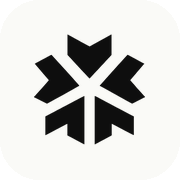
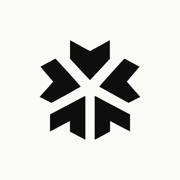
feat(site): adopt brand standard v1.1 and the user's naming and entity decisions
Standard v1.1: the header is 64px in every UnifyAI product, with clear space
relaxed to 12px a side there (the footer and hero diagram keep the full
rule); muted text on Slate uses the new --u-muted-on-dark token; the
favicon, iOS icon and OG image are now the kit's official files, replacing
the package's black-only SVG, transparent tile and the local re-render.

User decisions: the product is "UnifyAI Compute" in the title, metadata
and manifest (the header keeps lockup + "Compute"). The privacy policy's
Company and data controller is UnifyAI at the Petaling Jaya address, and
the comment no longer claims the text tracks felixsphere.com. The contact
email stays on felixsphere.com because unifyai.us has no MX record; the
felixsphere.com contact page link is gone. The GitHub links to FelixSphere
are removed with their elements, not left as empty slots.

The notifications spec records the operator's sender and job-page URL and
proposes the console notify verb for delivery; nothing is sent until the
job page exists.

diff --git a/app/globals.css b/app/globals.css
@@ -87,23 +87,24 @@ a:focus-visible, button:focus-visible { outline: none; box-shadow: var(--u-focus
 .wrap { width: min(1240px, calc(100% - 96px)); margin: auto; }
 
 /* The mark inside the 148px lockup is 34px tall and the SVG carries 8.5px of
-   padding, so 28px more on each open side keeps the brand's clear space (the
-   mark's own height). The page gutter covers the left edge. */
+   padding. In the 64px header UI-STANDARD relaxes clear space to 12px a side
+   plus the divider; the footer and the hero diagram keep the full rule (the
+   mark's own height, 28px beyond the SVG's padding). */
 .brand { display: block; flex-shrink: 0; padding: 28px 28px 28px 0; }
 .brand-lockup { display: block; width: 148px; height: auto; }
 .brand-group { display: flex; align-items: center; }
-.product-divider { width: 1px; height: 22px; background: var(--u-border); margin-right: 16px; }
+.nav .brand { padding: 0 4px 0 0; }
+.product-divider { width: 1px; height: 22px; background: var(--u-border); margin-right: 12px; }
 .product-name { font-family: var(--u-font-display); font-weight: 500; font-size: 17px; white-space: nowrap; }
 
-.nav { min-height: 108px; display: flex; align-items: center; justify-content: space-between; gap: 0 24px; border-bottom: var(--u-rule); }
+.nav { height: var(--u-header-height); display: flex; align-items: center; justify-content: space-between; gap: 0 24px; border-bottom: var(--u-rule); }
 .nav nav { display: flex; gap: 32px; font-size: var(--u-text-sm); color: var(--u-text-2); }
 .nav nav a:hover, footer a:not(.brand):hover, .text-link:hover { color: var(--u-text); text-decoration: underline; text-underline-offset: 4px; }
 
-.button, .nav-link { display: inline-flex; align-items: center; justify-content: center; gap: 12px; height: var(--u-btn-height); padding: 0 20px; border-radius: var(--u-radius); font-family: var(--u-font-body); font-size: 15px; font-weight: 600; transition: background .2s; }
+.button { display: inline-flex; align-items: center; justify-content: center; gap: 12px; height: var(--u-btn-height); padding: 0 20px; border-radius: var(--u-radius); font-family: var(--u-font-body); font-size: 15px; font-weight: 600; transition: background .2s; }
 .primary { background: var(--u-btn-primary-bg); color: var(--u-btn-primary-fg); }
 .primary:hover { background: var(--u-accent-hover); }
 .primary:active { background: var(--u-accent-active); }
-.nav-link { background: var(--u-btn-secondary-bg); color: var(--u-btn-secondary-fg); }
 
 .hero { display: grid; grid-template-columns: 1.12fr 1fr; gap: 56px; align-items: center; padding-block: 88px; }
 .eyebrow { font-family: var(--u-font-mono); font-size: var(--u-text-xs); letter-spacing: 1.6px; text-transform: uppercase; color: var(--u-text-muted); margin: 0 0 28px; display: flex; align-items: center; gap: 8px; }
@@ -117,10 +118,10 @@ h3 { font-size: var(--u-h3); }
 .text-link { font-size: 15px; font-weight: 600; display: flex; gap: 8px; align-items: center; }
 .hero-note { display: flex; align-items: center; gap: 8px; color: var(--u-text-muted); font-size: var(--u-text-xs); margin-top: 24px; }
 
-/* Slate is the brand's heavy surface. Text on it is Paper (11.9:1); Stone is
-   only for rules here, as tokens.css allows ("rules on dark"). */
+/* Slate is the brand's heavy surface: Paper text (11.9:1), --u-muted-on-dark
+   for secondary labels, Stone only for rules. */
 .compute-panel { border-radius: var(--u-radius); background: var(--u-slate); color: var(--u-paper); overflow: hidden; }
-.panel-head { display: flex; justify-content: space-between; gap: 8px; padding: 20px; border-bottom: 1px solid var(--u-stone); font: 11px var(--u-font-mono); letter-spacing: 1px; }
+.panel-head { display: flex; justify-content: space-between; gap: 8px; padding: 20px; border-bottom: 1px solid var(--u-stone); font: 11px var(--u-font-mono); letter-spacing: 1px; color: var(--u-muted-on-dark); }
 .panel-head > span:first-child { display: flex; align-items: center; gap: 8px; }
 .diagram-inputs { display: grid; grid-template-columns: repeat(4, 1fr); gap: 8px; margin: 32px 24px 0; }
 .diagram-inputs > span { display: flex; gap: 8px; align-items: center; justify-content: center; border: 1px solid var(--u-stone); border-radius: var(--u-radius); padding: 12px 4px; font-size: var(--u-text-xs); }
@@ -129,7 +130,7 @@ h3 { font-size: var(--u-h3); }
 .engine { display: flex; align-items: center; flex-wrap: wrap; gap: 0 28px; margin: 24px 48px 0; padding: 0 28px; background: var(--u-ink); border-radius: var(--u-radius); position: relative; }
 .engine:before { position: absolute; content: ''; top: -24px; height: 24px; left: 50%; border-left: 1px solid var(--u-stone); }
 .engine .brand-lockup { margin-block: 28px; }
-.engine-caption { font-size: var(--u-text-xs); }
+.engine-caption { font-size: var(--u-text-xs); color: var(--u-muted-on-dark); }
 .engine-bars { margin-left: auto; display: flex; gap: 4px; align-items: flex-end; height: 28px; }
 .engine-bars i { display: block; width: 4px; background: var(--u-accent); height: 12px; }
 .engine-bars i:nth-child(2n) { height: 20px; }
@@ -140,8 +141,8 @@ h3 { font-size: var(--u-h3); }
 .chip-grid { display: grid; grid-template-columns: repeat(3, 8px); gap: 4px; width: max-content; margin: 0 auto 12px; }
 .chip-grid i { width: 8px; height: 8px; border: 1px solid var(--u-stone); }
 .chip-grid .lit { background: var(--u-paper); border-color: var(--u-paper); }
-.gpu > span:last-child { font: 11px var(--u-font-mono); letter-spacing: 1px; }
-.panel-foot { border-top: 1px solid var(--u-stone); padding: 16px 20px; display: flex; flex-wrap: wrap; justify-content: space-between; gap: 8px; font: 11px var(--u-font-mono); }
+.gpu > span:last-child { font: 11px var(--u-font-mono); letter-spacing: 1px; color: var(--u-muted-on-dark); }
+.panel-foot { border-top: 1px solid var(--u-stone); padding: 16px 20px; display: flex; flex-wrap: wrap; justify-content: space-between; gap: 8px; font: 11px var(--u-font-mono); color: var(--u-muted-on-dark); }
 
 .principles { border-block: var(--u-rule); background: var(--u-surface); }
 .principles .wrap { display: flex; justify-content: space-between; gap: 24px; padding-block: 24px; }
@@ -173,15 +174,14 @@ h3 { font-size: var(--u-h3); }
 .consumption > div:first-child > p:not(.eyebrow) { line-height: 1.8; color: var(--u-text-2); max-width: 496px; margin: 24px 0; }
 .pricing-note { color: var(--u-text-muted); font-size: var(--u-text-sm); }
 .billing-card { border-radius: var(--u-radius); background: var(--u-slate); color: var(--u-paper); padding: 32px; }
-.billing-title { display: flex; align-items: center; gap: 8px; font: 11px var(--u-font-mono); letter-spacing: 1px; }
+.billing-title { display: flex; align-items: center; gap: 8px; font: 11px var(--u-font-mono); letter-spacing: 1px; color: var(--u-muted-on-dark); }
 .billing-card p { font-family: var(--u-font-display); font-weight: 700; font-size: var(--u-h1); line-height: 1.2; letter-spacing: -1px; margin: 32px 0; }
 .billing-card p span { color: var(--u-accent); }
-.billing-bottom { display: flex; justify-content: space-between; align-items: center; border-top: 1px solid var(--u-stone); padding-top: 20px; font-size: var(--u-text-sm); }
+.billing-bottom { display: flex; justify-content: space-between; align-items: center; border-top: 1px solid var(--u-stone); padding-top: 20px; font-size: var(--u-text-sm); color: var(--u-muted-on-dark); }
 
 footer { display: flex; align-items: center; column-gap: 32px; flex-wrap: wrap; border-top: var(--u-rule); padding-block: 8px; margin-bottom: 12px; }
 footer > span { font-size: var(--u-text-sm); color: var(--u-text-muted); }
 footer > a:not(.brand) { display: flex; gap: 8px; align-items: center; margin-left: auto; font-size: var(--u-text-sm); }
-footer > .footer-privacy + a { margin-left: 0; }
 footer > .copyright { width: 100%; font-size: var(--u-text-xs); padding-bottom: 28px; }
 
 .legal { max-width: 760px; padding-block: 72px 96px; line-height: 1.75; color: var(--u-text-2); }
@@ -202,8 +202,8 @@ footer > .copyright { width: 100%; font-size: var(--u-text-xs); padding-bottom: 
 
 @media (min-width: 1450px) { .hero { padding-block: 104px; } }
 @media (max-width: 1100px) { .wrap { width: calc(100% - 56px); } .hero { gap: 32px; } .hero-actions { gap: 16px; } .diagram-inputs { margin-inline: 12px; gap: 4px; } .panel-label { display: none; } .engine { margin-inline: 32px; } .workload { padding-inline: 20px; } .consumption { gap: 48px; } .steps { gap: 36px; } }
-@media (max-width: 800px) { .nav nav { gap: 16px; } .nav-link { display: none; } .hero { grid-template-columns: 1fr; padding-block: 56px; gap: 40px; } .hero-copy { max-width: 572px; } .hero-description, .hero-detail { max-width: 540px; } .compute-panel { max-width: 560px; width: 100%; margin: auto; } .workload-grid { grid-template-columns: repeat(2, 1fr); } .workload:nth-child(3) { border-left: 0; border-top: var(--u-rule); } .workload:nth-child(4) { border-top: var(--u-rule); } .workload p { min-height: auto; } .section-heading { align-items: flex-start; flex-direction: column; gap: 20px; } .section { padding-block: 60px; } .steps { gap: 24px; } .consumption { gap: 36px; } .billing-card { padding: 24px; } .billing-card p { font-size: var(--u-h2); } .principles span { font-size: var(--u-text-xs); gap: 8px; } .subtle-label { display: none; } footer { column-gap: 20px; } }
-/* A phone gets the navigation on its own row under the lockup, so the header
-   never squeezes the lockup's clear space or overflows 375px. */
-@media (max-width: 520px) { .wrap { width: calc(100% - 48px); } .nav { flex-wrap: wrap; } .nav nav { width: 100%; gap: 16px; padding-bottom: 20px; } .nav nav a:last-child { display: none; } h1 { font-size: var(--u-h1); letter-spacing: -1px; } h2 { font-size: var(--u-h2); letter-spacing: -.4px; } .eyebrow { font-size: 11px; letter-spacing: 1.2px; } .hero-actions { align-items: flex-start; flex-direction: column; gap: 20px; } .hero-detail { font-size: var(--u-text-sm); } .principles .wrap { flex-wrap: wrap; gap: 8px 20px; } .principles .wrap > span:last-child { width: 100%; } .workload-grid { grid-template-columns: 1fr; } .workload + .workload { border-left: 0; border-top: var(--u-rule); } .card-top { margin-bottom: 24px; } .workload p { font-size: var(--u-text-md); max-width: 360px; } .steps, .consumption { grid-template-columns: 1fr; } .steps { gap: 32px; margin-top: 32px; } .steps p { max-width: none; } .panel-head { padding: 16px; } .diagram-inputs > span { flex-direction: column; gap: 8px; font-size: 11px; } .gpu-grid { gap: 8px; margin-inline: 16px; } .panel-foot { padding-inline: 16px; } .flow-lines { margin-inline: 44px; } .engine { margin-inline: 16px; } .engine-caption { width: 100%; padding-bottom: 28px; } .engine-bars { position: absolute; right: 20px; top: 40px; } .engine-bars i { width: 3px; } footer > span:nth-child(2) { display: none; } footer > a:not(.brand) { font-size: var(--u-text-xs); gap: 4px; } .section { padding-block: 48px; } }
+@media (max-width: 800px) { .nav nav { gap: 16px; } .hero { grid-template-columns: 1fr; padding-block: 56px; gap: 40px; } .hero-copy { max-width: 572px; } .hero-description, .hero-detail { max-width: 540px; } .compute-panel { max-width: 560px; width: 100%; margin: auto; } .workload-grid { grid-template-columns: repeat(2, 1fr); } .workload:nth-child(3) { border-left: 0; border-top: var(--u-rule); } .workload:nth-child(4) { border-top: var(--u-rule); } .workload p { min-height: auto; } .section-heading { align-items: flex-start; flex-direction: column; gap: 20px; } .section { padding-block: 60px; } .steps { gap: 24px; } .consumption { gap: 36px; } .billing-card { padding: 24px; } .billing-card p { font-size: var(--u-h2); } .principles span { font-size: var(--u-text-xs); gap: 8px; } .subtle-label { display: none; } footer { column-gap: 20px; } }
+/* On a phone the 64px bar holds the lockup and descriptor only; the links
+   move to a row beneath it rather than overflow 375px. */
+@media (max-width: 520px) { .wrap { width: calc(100% - 48px); } .nav { height: auto; flex-wrap: wrap; } .brand-group { height: var(--u-header-height); } .nav nav { width: 100%; gap: 16px; padding-bottom: 16px; } .nav nav a:last-child { display: none; } h1 { font-size: var(--u-h1); letter-spacing: -1px; } h2 { font-size: var(--u-h2); letter-spacing: -.4px; } .eyebrow { font-size: 11px; letter-spacing: 1.2px; } .hero-actions { align-items: flex-start; flex-direction: column; gap: 20px; } .hero-detail { font-size: var(--u-text-sm); } .principles .wrap { flex-wrap: wrap; gap: 8px 20px; } .principles .wrap > span:last-child { width: 100%; } .workload-grid { grid-template-columns: 1fr; } .workload + .workload { border-left: 0; border-top: var(--u-rule); } .card-top { margin-bottom: 24px; } .workload p { font-size: var(--u-text-md); max-width: 360px; } .steps, .consumption { grid-template-columns: 1fr; } .steps { gap: 32px; margin-top: 32px; } .steps p { max-width: none; } .panel-head { padding: 16px; } .diagram-inputs > span { flex-direction: column; gap: 8px; font-size: 11px; } .gpu-grid { gap: 8px; margin-inline: 16px; } .panel-foot { padding-inline: 16px; } .flow-lines { margin-inline: 44px; } .engine { margin-inline: 16px; } .engine-caption { width: 100%; padding-bottom: 28px; } .engine-bars { position: absolute; right: 20px; top: 40px; } .engine-bars i { width: 3px; } footer > span:nth-child(2) { display: none; } footer > a:not(.brand) { font-size: var(--u-text-xs); gap: 4px; } .section { padding-block: 48px; } }
 @media (prefers-reduced-motion: reduce) { html { scroll-behavior: auto; } * { transition: none !important; } }

diff --git a/app/page.tsx b/app/page.tsx
@@ -1,6 +1,6 @@
 import Link from 'next/link';
 import { BrandLockup, CompanyLine } from './brand';
-import { ArrowUpRight, ArrowRight, Layers3, ScanText, SlidersHorizontal, Binary, Zap, GitFork } from 'lucide-react';
+import { ArrowUpRight, ArrowRight, Layers3, ScanText, SlidersHorizontal, Binary, Zap } from 'lucide-react';
 
 const workloads = [
   { icon: Layers3, number: '01', title: 'Batch processing', text: 'From a thousand records to your entire dataset. Run inference in bulk, on your schedule.', tags: 'DATA ENRICHMENT / OFFLINE INFERENCE' },
@@ -16,7 +16,6 @@ export default function Home() {
       <header className="nav wrap">
         <div className="brand-group"><a href="#top" className="brand" aria-label="UnifyAI home"><BrandLockup/></a><span className="product-divider" aria-hidden="true"/><span className="product-name">Compute</span></div>
         <nav aria-label="Main navigation"><a href="#workloads">Workloads</a><a href="#how-it-works">How it works</a><a href="#consumption">Consumption</a></nav>
-        <a className="nav-link" href="https://github.com/FelixSphere" target="_blank" rel="noreferrer">Follow the build <ArrowUpRight size={16}/></a>
       </header>
 
       <section className="hero wrap">
@@ -25,8 +24,8 @@ export default function Home() {
           <h1>Big workloads.<br/>Zero reservations.</h1>
           <p className="hero-description">On-demand inference and GPU compute for everything beyond chat.</p>
           <p className="hero-detail">Batch processing. Embeddings. Document pipelines. Fine-tuning. Built around the work you run, with consumption-based billing.</p>
-          <div className="hero-actions"><a className="button primary" href="#workloads">Explore the workloads <ArrowRight size={18}/></a><a className="text-link" href="#how-it-works">Meet unifyAI <ArrowUpRight size={17}/></a></div>
-          <div className="hero-note"><Zap size={14}/> In development · A new compute platform from unifyAI</div>
+          <div className="hero-actions"><a className="button primary" href="#workloads">Explore the workloads <ArrowRight size={18}/></a><a className="text-link" href="#how-it-works">Meet UnifyAI Compute <ArrowUpRight size={17}/></a></div>
+          <div className="hero-note"><Zap size={14}/> In development · A new compute platform from UnifyAI</div>
         </div>
         <div className="compute-panel" aria-label="Conceptual workload execution diagram">
           <div className="panel-head"><span><span className="tiny-square"/> WORKLOAD ENGINE</span><span className="panel-label">CONCEPT PREVIEW</span></div>
@@ -45,7 +44,7 @@ export default function Home() {
       <section className="process-section" id="how-it-works"><div className="wrap section"><div className="section-heading"><div><p className="eyebrow">02 / THE COMPUTE MODEL</p><h2>From workload to output.<br/>Without the capacity planning.</h2></div><span className="subtle-label">DESIGNED TO KEEP YOU BUILDING</span></div><div className="steps"><article><span className="step-number">01</span><h3>Define the work</h3><p>Choose a model or bring your own job. Specify the data and resources it needs.</p></article><article><span className="step-number">02</span><h3>Run on demand</h3><p>The platform is designed to provision GPU compute for the task and release it when finished.</p></article><article><span className="step-number">03</span><h3>Keep the output</h3><p>Take the results into your application. Track consumption across your jobs.</p></article></div></div></section>
 
       <section className="consumption wrap section" id="consumption"><div><p className="eyebrow">03 / CONSUMPTION, NOT COMMITMENT</p><h2>Your work has a runtime.<br/><span>Your bill should, too.</span></h2><p>Our billing model is built around consumption, so you can match compute spend to actual workloads instead of reserving capacity ahead of time.</p><div className="pricing-note">Rates and availability will be announced at launch.</div></div><div className="billing-card"><div className="billing-title"><Zap size={18}/> THE PRINCIPLE</div><p>Run the job.<br/>Use the compute.<br/><span>Pay for the usage.</span></p><div className="billing-bottom"><span>Consumption-based</span><ArrowUpRight size={22}/></div></div></section>
-      <footer className="wrap"><a href="#top" className="brand" aria-label="UnifyAI home"><BrandLockup/></a><span>Compute beyond chat.</span><Link href="/privacy" className="footer-privacy">Privacy</Link><a href="https://github.com/FelixSphere" target="_blank" rel="noreferrer"><GitFork size={17}/> Follow development <ArrowUpRight size={15}/></a><CompanyLine/></footer>
+      <footer className="wrap"><a href="#top" className="brand" aria-label="UnifyAI home"><BrandLockup/></a><span>Compute beyond chat.</span><Link href="/privacy" className="footer-privacy">Privacy</Link><CompanyLine/></footer>
     </main>
   );
 }

diff --git a/app/privacy/page.tsx b/app/privacy/page.tsx
@@ -3,13 +3,14 @@ import Link from 'next/link';
 import { BrandLockup, CompanyLine } from '../brand';
 
 export const metadata: Metadata = {
-  title: 'Privacy Policy — unifyAI',
+  title: 'Privacy Policy — UnifyAI Compute',
   description:
-    'How unifyAI collects, uses, and protects your information, and the cookies this site uses.',
+    'How UnifyAI collects, uses, and protects your information, and the cookies this site uses.',
 };
 
-// Text is FelixSphere's policy verbatim (FelixSphere LLC is the legal entity); only the Website
-// definition and the last-updated date differ. Keep it in sync with felixsphere.com/legal/privacy.
+// UnifyAI is the Company and data controller (user decision, 2026-10-01). The text started from
+// FelixSphere's policy but no longer tracks it; edit it here. The contact mailbox stays on
+// felixsphere.com only until a unifyai.us mailbox exists (unifyai.us has no MX record).
 export default function PrivacyPolicy() {
   return (
     <main id="top">
@@ -74,7 +75,8 @@ export default function PrivacyPolicy() {
           <strong> Company </strong>
           (referred to as either &quot;the Company&quot;, &quot;We&quot;,
           &quot;Us&quot; or &quot;Our&quot; in this Agreement) refers to
-          FelixSphere LLC, 6 KAREN CT.
+          UnifyAI, Lebuh Bandar Utama PJU 6, 47800 Petaling Jaya, Selangor,
+          Malaysia.
         </p>
 
         <p>For the purpose of the GDPR, the Company is the Data Controller.</p>
@@ -154,7 +156,7 @@ export default function PrivacyPolicy() {
 
         <p>
           <strong> Website </strong>
-          refers to unifyAI, accessible from https://compute.unifyai.us
+          refers to UnifyAI Compute, accessible from https://compute.unifyai.us
         </p>
 
         <p>
@@ -825,13 +827,6 @@ export default function PrivacyPolicy() {
         </p>
 
         <p>By email: contactus@felixsphere.com</p>
-
-        <p>
-          By visiting this page on our website:{' '}
-          <a href="https://www.felixsphere.com/contact-us">
-            https://www.felixsphere.com/contact-us
-          </a>
-        </p>
 
         <p>By phone number: 408.462.2806</p>
       </article>

diff --git a/app/unifyai-tokens.css b/app/unifyai-tokens.css
@@ -1,4 +1,4 @@
-/* UnifyAI · canonical design tokens · v1 (2026-10-01)
+/* UnifyAI · canonical design tokens · v1.1 (2026-10-01) · v1.1 adds --u-muted-on-dark
  * ONE file for all five products (UnifyAPI, Unify Gateway, unify-compute, UnifyData, UnifySelfAI).
  * Copy it verbatim into your repo. Do not edit values locally; changes go through ~/unifyai-brand-kit.
  * Derived from the logo package's design-tokens.css, with two accessibility fixes:
@@ -14,6 +14,7 @@
   --u-muted: #6B6B66;          /* muted text, captions, table headers */
   --u-stone: #8B8B86;          /* rules on dark, disabled, NEVER body text on paper */
   --u-slate: #2E3440;          /* heavy surfaces: sidebars on dark, hero panels, secondary buttons */
+  --u-muted-on-dark: #B8B8B2;  /* muted text on Slate (6.3:1) or Ink (10:1) */
   --u-amber-500: #F5A623;      /* the one accent */
   --u-amber-600: #E5930A;
   --u-amber-700: #BE7A09;

diff --git a/app/cookie-notice.tsx b/app/cookie-notice.tsx
@@ -86,7 +86,7 @@ export function CookieNotice() {
       aria-label="Cookie notice"
       className="fixed bottom-24 left-4 right-4 z-50 max-w-[480px] rounded-lg bg-(--u-btn-secondary-bg) p-5 text-(--u-btn-secondary-fg) sm:bottom-6 sm:left-6 sm:right-auto"
     >
-      <p className="m-0 font-mono text-[11px] uppercase tracking-[0.14em] text-(--u-btn-secondary-fg)">
+      <p className="m-0 font-mono text-[11px] uppercase tracking-[0.14em] text-(--u-muted-on-dark)">
         Cookie notice
       </p>
       <p className="m-0 mt-3 text-[14px] leading-[1.55]">

diff --git a/app/layout.tsx b/app/layout.tsx
@@ -11,7 +11,7 @@ import './globals.css';
 
 const HUBSPOT_PORTAL_ID = '46127314';
 
-const title = 'unifyAI — On-demand inference & GPU compute';
+const title = 'UnifyAI Compute — On-demand inference & GPU compute';
 const description =
   'Compute beyond chat. On-demand GPU compute for batch processing, embeddings, document pipelines, and fine-tuning, with consumption-based billing.';
 // Browsers keep favicons long after the file changes, so every icon swap

diff --git a/docs/spec/notifications.md b/docs/spec/notifications.md
@@ -1,6 +1,6 @@
-# Notifications: customer email for job outcomes
+# Notifications: UnifyAI Compute customer email for job outcomes
 
-- **Status:** Spec, nothing built. Compute sends no mail today. No code in this
+- **Status:** Spec, nothing built. UnifyAI Compute sends no mail today. No code in this
   repository builds, renders or sends email, and this document does not add
   any.
 - Depends on: [`job-api.md`](job-api.md) (job states, `error.code`, the
@@ -20,9 +20,9 @@
 | Layout (`docs/spec/email/base.html`) | Copied from the kit. Not wired to anything. |
 | Logo PNGs (`public/email/`) | Served by the marketing site at `https://compute.unifyai.us/email/…` once this branch is released. On the local production build (`wrangler dev`) the kit's `@2x` file names answer `307` to the `%402x` spelling, which then returns `200`. Image proxies normally follow that redirect, but check the live URLs once before the first send. |
 | Customer email addresses | **Compute does not have them.** The UnifyAPI console owns accounts and contact details (ADR-0001). |
-| Delivery path | **Open.** See [Delivery](#delivery-open). |
-| Job web page for the CTA to open | **Does not exist.** See [Open points](#open-points). |
-| Sender name and address | **Not decided.** See [Open points](#open-points). |
+| Delivery path | **Proposed:** a new console bridge verb, `notify`. Not built on either side. See [Delivery](#delivery-proposed). |
+| Job web page for the CTA to open | **Decided by the operator, 2026-10-01:** `https://compute.unifyai.us/jobs/{job_id}`. **The page does not exist yet, and none of these emails is sent until it does.** |
+| Sender name and address | **Decided by the operator, 2026-10-01:** `UnifyAI Compute <no-reply@compute.unifyai.us>`. No mail domain is set up yet; it is set up when sending is built. |
 
 ## Messages
 
@@ -58,11 +58,11 @@ These values are the same in every message.
 |---|---|
 | `{{lang}}` / `{{dir}}` | `en` / `ltr` (compute has no other locale) |
 | `{{asset_base}}` | `https://compute.unifyai.us/email` |
-| `{{product_name}}` | `Compute`, as the brand owner asked. See the naming note under open points. |
+| `{{product_name}}` | `Compute`. The product is **UnifyAI Compute** (user decision, 2026-10-01). The header shows the UnifyAI lockup and then this descriptor, so the full name reads once. The same slot fills the footer. |
 | `{{product_url}}` / `{{product_domain}}` | `https://compute.unifyai.us` / `compute.unifyai.us` |
 | `{{footer_reason}}` | "You're receiving this because a job you submitted with your UnifyAPI key changed state." |
 | Focal element | Option (a), the CTA button: amber `#F5A623` with **ink `#0E0E0E` text**, exactly as in `base.html`. Never white on amber. Amber appears only on this button. |
-| `{{cta_url}}` | The job's page, `…/jobs/{id}`. That page does not exist yet (open points). The raw link under the button is the same URL. |
+| `{{cta_url}}` | `https://compute.unifyai.us/jobs/{job_id}` (decided by the operator, 2026-10-01). The page does not exist yet, so nothing is sent until it does. The raw link under the button is the same URL. |
 
 All three messages use these detail rows. Values are mono, as in the layout.
 
@@ -91,7 +91,7 @@ not carry.
 
 | Part | Content |
 |---|---|
-| Subject | `Compute job finished: {job id}` |
+| Subject | `UnifyAI Compute: job {job id} finished` |
 | Preheader | `Ran {gpu_seconds} GPU-seconds on {gpu}. Outputs are ready to download.` |
 | Eyebrow | `JOB FINISHED` |
 | Headline | `Your job finished.` |
@@ -104,7 +104,7 @@ not carry.
 
 | Part | Content |
 |---|---|
-| Subject | `Compute job failed: {job id}` |
+| Subject | `UnifyAI Compute: job {job id} failed` |
 | Preheader | One sentence with the `error.message` from the Job. If the job never reached `UP`, add: `No GPU time was charged.` |
 | Eyebrow | `JOB FAILED` |
 | Headline | `Your job failed.` |
@@ -120,7 +120,7 @@ that compute itself stopped (`job-api.md`; `metering.md` H4 and H5).
 
 | Part | `balance_exhausted` (H4, B12) | `billing_unavailable` (H5, B13) |
 |---|---|---|
-| Subject | `Compute job stopped: balance exhausted` | `Compute job stopped: billing unavailable` |
+| Subject | `UnifyAI Compute: job stopped, balance exhausted` | `UnifyAI Compute: job stopped, billing unavailable` |
 | Preheader | `Your UnifyAPI balance could not cover more GPU time for {job id}.` | `We couldn't reach billing for {job id}, so we stopped it before it overspent its hold.` |
 | Eyebrow | `JOB STOPPED` | `JOB STOPPED` |
 | Headline | `Your job was stopped: balance exhausted.` | `Your job was stopped: billing unavailable.` |
@@ -133,48 +133,44 @@ The focal element stays the job link in both variants. The top-up action lives
 in the UnifyAPI console. A second button would put amber on the page twice, so
 the safety line names the action as text instead.
 
-## Delivery (open)
+## Delivery (proposed)
 
-Compute cannot email a customer today. It never sees an address: the console
-owns contact details (ADR-0001), and ADR-0008's consequences say this "must be
-resolved before the first paid customer". The named options are listed below.
-None is chosen here.
+**Proposed by the operator, 2026-10-01: the console sends, through a new bridge
+verb `notify`.** The console already holds customer email addresses (ADR-0001),
+and compute never sees them. ADR-0008 open point 1 already names the verb as
+`POST /api/compute/v1/notify`; this spec proposes it and does not specify it.
+Before any email can go out, this still needs:
 
-- **The console sends.** A new bridge verb asks the console to email a user.
-  ADR-0008 open point 1 names it as `POST /api/compute/v1/notify`, "not
-  proposed here, only named", and `metering.md` lists it as optional. The
-  console's existing sender is `console/common/email.go` over SES, per the kit
-  README. Because of ADR-0002, the console-side half would be new AGPL code in
-  the console repository, and compute would send it only the template data.
+- the verb, specified in `console-billing-bridge.md` and signed like the other
+  bridge calls;
+- the console-side handler, written as new AGPL files in `unifyapi-console`
+  (ADR-0002). The console's existing sender is `console/common/email.go` over
+  SES, per the kit README. Compute sends the template data, and either the
+  rendered HTML and plain text or the slot values; which of the two is part
+  of specifying the verb;
+- the `compute.unifyai.us` mail domain for the sender above, or a decision
+  that the console's SES identity sends on its behalf;
+- the job page at `https://compute.unifyai.us/jobs/{job_id}`.
+
+ADR-0008's consequences say a notification path "must be resolved before the
+first paid customer". These are the alternatives that were considered and not
+proposed:
+
 - **Compute sends.** Compute would need the address from the console, which
-  is new data crossing the bridge, plus its own mail provider and sending
-  domain.
+  is new data crossing the bridge, plus its own mail provider.
 - **Neither, for now.** Job events and webhooks (ADR-0007 P1) carry the same
-  information, and email waits.
+  information.
 
-Whichever path is chosen, the `{{…}}` values above are the contract. The
-rendered HTML and the plain-text part come from `base.html` with those slots
-filled.
+The `{{…}}` values above are the contract whichever side renders them.
 
 ## Open points
 
-Each of these is for the user or the brand owner to decide.
-
-1. **Sender display name and address.** The kit's rule is `<product name>
-   <no-reply@…>`, e.g. `Compute <no-reply@compute.unifyai.us>`. No mail domain
-   is set up for `compute.unifyai.us`, and if the console sends, its own SES
-   identity may dictate the address.
-2. **Delivery path.** See the section above.
-3. **Product name in the header and sender.** The brand owner asked for
-   `Compute`. The kit README's rule is "`{{product_name}}` is the product's
-   current name", and the current name is not uniform. The repository and
-   docs say `unify-compute`, the kit README lists `unify-compute`, the
-   marketing site's title says `unifyAI`, and the unmerged
-   `feat/cross-terminal` branch calls it `UnifyCompute`. `Compute` does not
-   contradict any of these, since it reads as the descriptor after the
-   UnifyAI lockup, but they should be settled together.
-4. **Where `{{cta_url}}` points.** No customer UI shows a job yet. It could be
-   a future console page, a compute dashboard, or the API URL. The API URL
-   needs a key and is not a page.
-5. **More messages.** An early warning at the first refused extension (H4, about
-   50 minutes before the cancel), and `interrupted` (B9).
+1. **Delivery path.** The `notify` verb is proposed and still needs the
+   console-side work listed above. It is not accepted until the bridge spec
+   changes.
+2. **Job page.** `https://compute.unifyai.us/jobs/{job_id}` is decided but does
+   not exist. Nothing is sent before it does.
+3. **Mail domain** for `no-reply@compute.unifyai.us`. It is set up when sending
+   is built.
+4. **More messages.** An early warning at the first refused extension (H4,
+   about 50 minutes before the cancel), and `interrupted` (B9).
